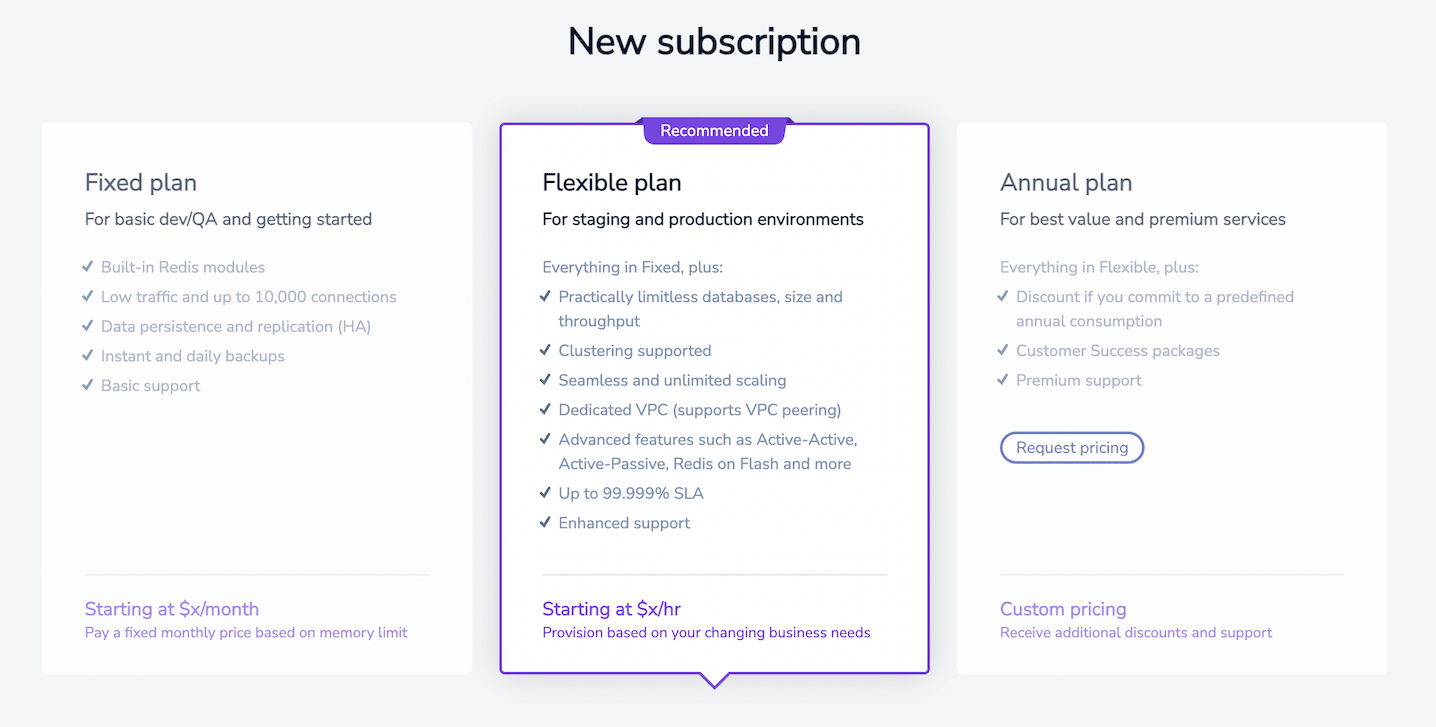
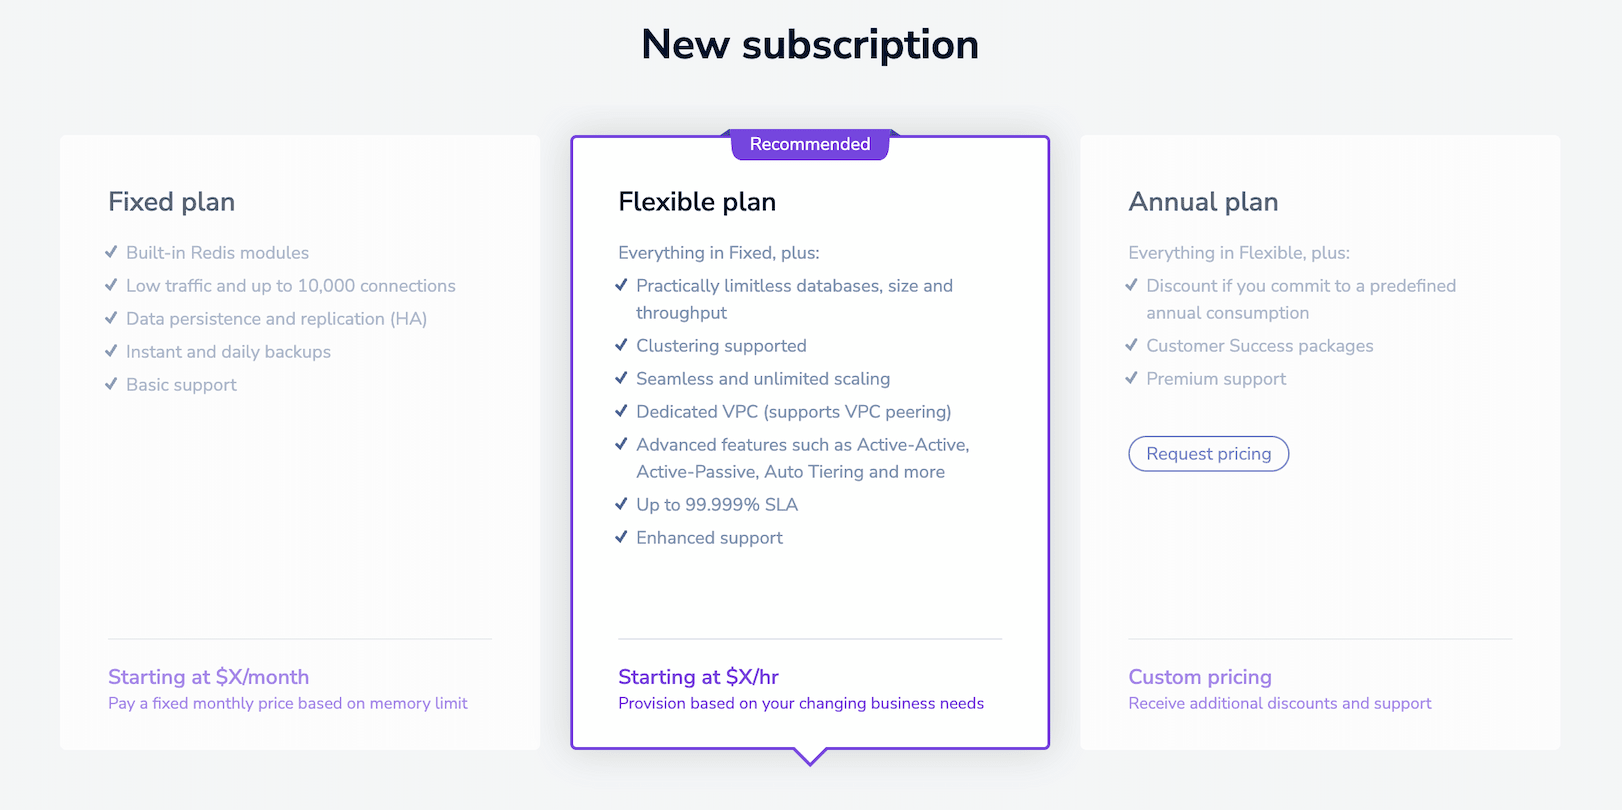
DOC-2236 and DOC-2725: Fixed subscription limits need to be clearer & New subscription screenshots (#2835)
* DOC-2575 images

* DOC-2236 Concurrent connections per database

diff --git a/content/rc/subscriptions/create-fixed-subscription.md b/content/rc/subscriptions/create-fixed-subscription.md
@@ -21,7 +21,7 @@ When creating your subscription, you'll need to know which tier to choose.
 
 Fixed plan pricing scales according to the memory size of all databases defined in the subscription.  Additional limits also apply, as shown here (updated February 2021):
 
-| Max DB Size &nbsp; | Number of<br/>Databases | Concurrent<br/>Connections | Security<br/> Groups | Max IP<br/> Auth rules |
+| Max DB Size &nbsp; | Number of<br/>Databases | Concurrent<br/>Connections<br/>per Database | Security<br/> Groups | Max IP<br/> Auth rules |
 |------------:|:---------:|:-----------:|:---------------:|:-------------:|
 | (Free) 30 MB &nbsp;&nbsp;&nbsp;&nbsp; | 1 | 30 | N/A | N/A |
 | 100 MB &nbsp;&nbsp;&nbsp;&nbsp; | 4 | 256 | 1 | 4 |
